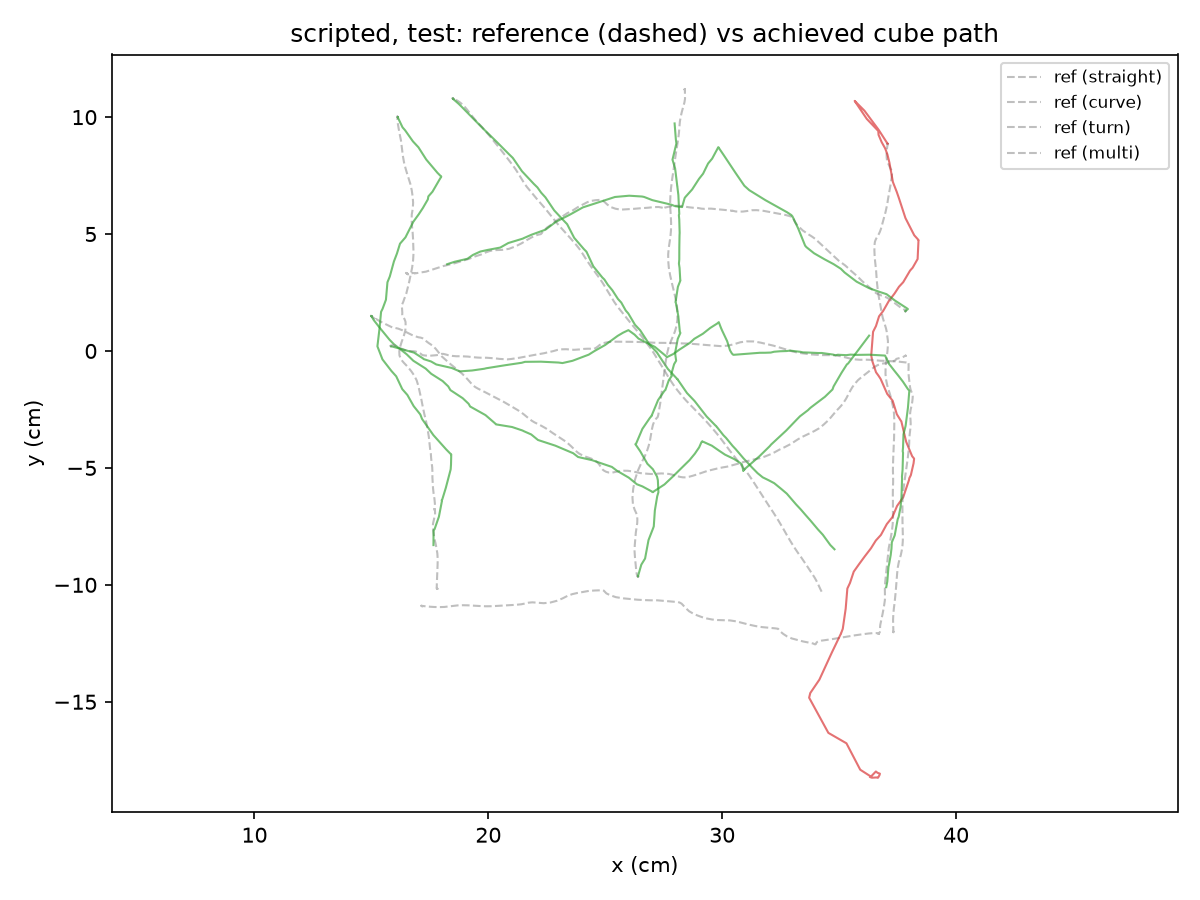
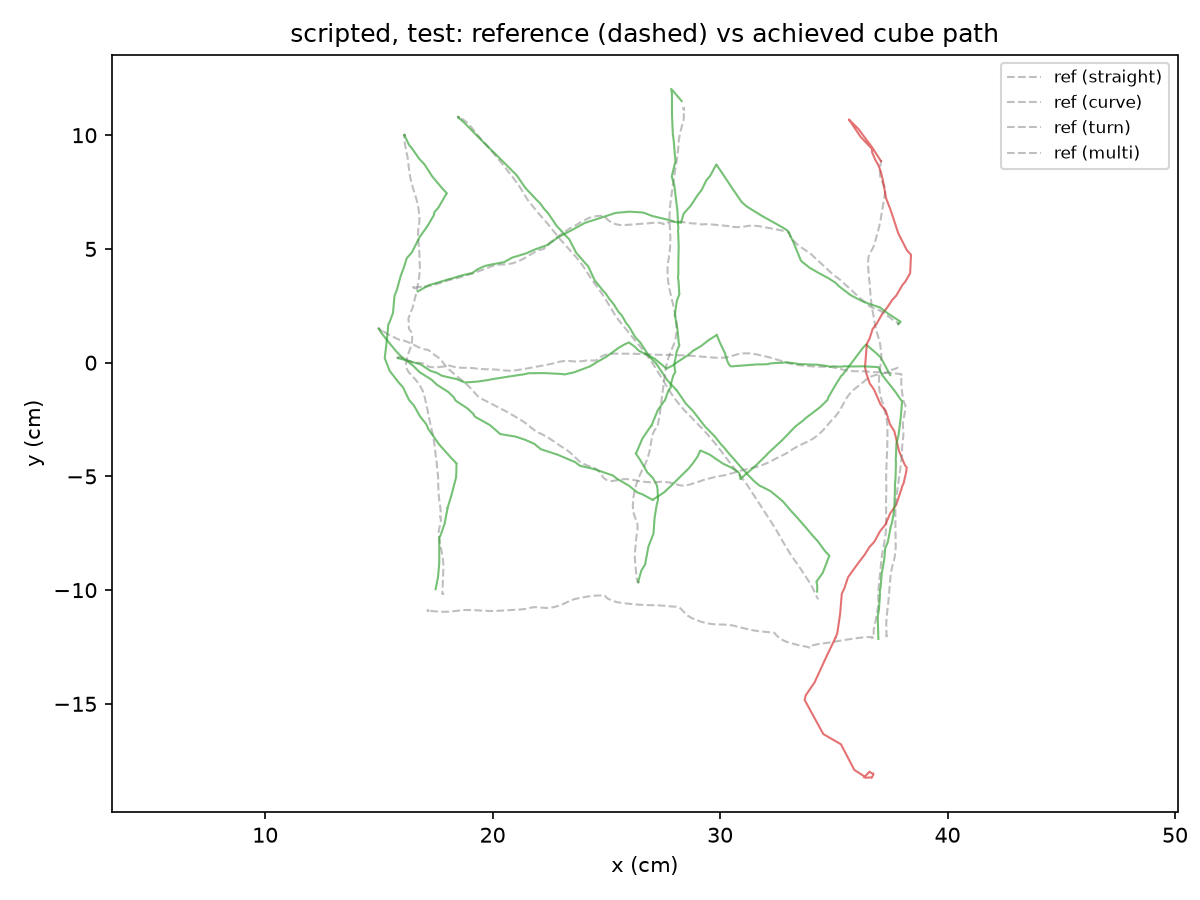
C4.2/C5.2 follow-up: fast-fail IK, until-done evaluation, scripted pusher re-run (train 27/27, test 6/7)

diff --git a/eval/report.py b/eval/report.py
@@ -188,12 +188,19 @@ def episode_categories() -> dict:
         return {row["id"]: row.get("category", "") for row in csv.DictReader(f)}
 
 
-def rollout(env, controller: Callable, episode, method: str = "", categories: "dict | None" = None) -> dict:
-    """One episode: reset the env on it, run the controller to termination, score the cube trajectory.
+def rollout(env, controller: Callable, episode, method: str = "", categories: "dict | None" = None,
+            until_done: bool = True) -> dict:
+    """One episode: reset the env on it, run the controller to the end, score the cube trajectory.
 
     episode : episode id (split envs) or integer path index (envs built from explicit paths).
     The controller is called as controller(obs) -> action; if it has reset(ref_xy) it is called first
     with the episode's reference path (robot frame), so progress-tracking controllers start clean.
+
+    until_done : True (the evaluation protocol) keeps running past the env's first success until the
+                 controller reports done (a truthy ``done`` attribute, checked after it chooses its
+                 action) or the step limit, so the final error is where the box actually ends. False
+                 stops at the env's first success, as in training. A controller without a ``done``
+                 attribute cannot say when it is finished, so the env's termination ends its episode.
     """
     options = {"episode": episode} if isinstance(episode, (int, np.integer)) else {"episode_id": episode}
     obs, _ = env.reset(options=options)
@@ -201,11 +208,15 @@ def rollout(env, controller: Callable, episode, method: str = "", categories: "d
     if hasattr(controller, "reset"):
         controller.reset(ref_xy)
     achieved = [np.asarray(env.cube_xy_yaw[0], dtype=float)]
-    done = False
-    while not done:
-        obs, _, terminated, truncated, _ = env.step(controller(obs))
+    self_stopping = until_done and hasattr(controller, "done")
+    while True:
+        action = controller(obs)
+        if self_stopping and controller.done:
+            break
+        obs, _, terminated, truncated, _ = env.step(action)
         achieved.append(np.asarray(env.cube_xy_yaw[0], dtype=float))
-        done = terminated or truncated
+        if truncated or (terminated and not self_stopping):
+            break
     achieved_xy = np.array(achieved)
     t = np.arange(len(achieved_xy)) * env.dt
     ep_id = episode if isinstance(episode, str) else f"path_{int(episode)}"
@@ -224,12 +235,12 @@ def _init_worker(split, env_kwargs):
     _worker["categories"] = episode_categories()
 
 
-def _worker_rollout(controller, episode, method):
-    return rollout(_worker["env"], controller, episode, method, _worker["categories"])
+def _worker_rollout(controller, episode, method, until_done):
+    return rollout(_worker["env"], controller, episode, method, _worker["categories"], until_done)
 
 
 def evaluate(controller: Callable, split: "str | None" = None, method: str = "", env=None,
-             workers: int = 1, env_kwargs: "dict | None" = None) -> list:
+             workers: int = 1, env_kwargs: "dict | None" = None, until_done: bool = True) -> list:
     """Run the controller once on every episode of a split and return per-episode metrics.
 
     Parameters
@@ -240,7 +251,9 @@ def evaluate(controller: Callable, split: "str | None" = None, method: str = "",
     split      : 'train', 'test' or 'showcase' (builds PushTrackEnv(split=split))
     method     : label written to the method column
     env        : an existing PushTrackEnv to use instead (explicit paths, tests); runs every path in it
-    workers    : number of processes (split mode only); episodes are independent, rollouts are slow
+    workers    : number of processes (split mode only); episodes are independent
+    until_done : run each episode until the controller reports done or the step limit (the protocol), not
+                 until the env's first success; see rollout()
 
     Returns
     -------
@@ -252,14 +265,14 @@ def evaluate(controller: Callable, split: "str | None" = None, method: str = "",
     if env is not None:
         ids = env.episode_ids or list(range(len(env._paths)))
         cats = episode_categories()
-        return [rollout(env, controller, ep, method, cats) for ep in ids]
+        return [rollout(env, controller, ep, method, cats, until_done) for ep in ids]
     if split is None:
         raise ValueError("pass a split or an env")
     from sim.push_env import PushTrackEnv
     if workers <= 1:
         env = PushTrackEnv(split=split, **env_kwargs)
         try:
-            return evaluate(controller, method=method, env=env)
+            return evaluate(controller, method=method, env=env, until_done=until_done)
         finally:
             env.close()
     from concurrent.futures import ProcessPoolExecutor
@@ -268,5 +281,5 @@ def evaluate(controller: Callable, split: "str | None" = None, method: str = "",
     probe.close()
     with ProcessPoolExecutor(max_workers=min(workers, len(ids)), initializer=_init_worker,
                              initargs=(split, env_kwargs)) as pool:
-        futures = [pool.submit(_worker_rollout, controller, ep, method) for ep in ids]
+        futures = [pool.submit(_worker_rollout, controller, ep, method, until_done) for ep in ids]
         return [f.result() for f in futures]

diff --git a/tests/test_report.py b/tests/test_report.py
@@ -175,8 +175,9 @@ def test_write_gif_greyscale_frames():
 
 class _StubEnv:
     """PushTrack-like env on explicit paths: the cube follows the last action exactly (no physics)."""
-    def __init__(self, paths, ids=None):
+    def __init__(self, paths, ids=None, terminate_at=None):
         self._paths, self.episode_ids, self.dt, self.cube = paths, ids, 0.05, None
+        self.terminate_at = terminate_at
 
     def reset(self, options=None):
         self._i = options["episode_id"] and self.episode_ids.index(options["episode_id"])             if "episode_id" in options else options["episode"]
@@ -193,8 +194,9 @@ class _StubEnv:
 
     def step(self, action):
         self.k = min(self.k + 1, len(self.path) - 1)
-        done = self.k == len(self.path) - 1
-        return np.r_[self.path[self.k], self.path[self.k], 0.0, 1.0], 0.0, done, False, {}
+        last = len(self.path) - 1
+        done = self.k == last if self.terminate_at is None else self.k >= self.terminate_at
+        return np.r_[self.path[self.k], self.path[self.k], 0.0, 1.0], 0.0, done, self.k == last, {}
 
 
 class _FollowRef:
@@ -241,3 +243,38 @@ def test_evaluate_real_env_on_synthetic_path():
 def test_evaluate_needs_split_or_env():
     with pytest.raises(ValueError):
         evaluate(lambda obs: np.zeros(2))
+
+
+class _DoneAfter:
+    """Controller that reports done once it has been asked for n actions."""
+    def __init__(self, n):
+        self.n, self.calls = n, 0
+
+    def __call__(self, obs):
+        self.calls += 1
+        return np.zeros(2)
+
+    @property
+    def done(self):
+        return self.calls >= self.n
+
+
+def test_until_done_runs_past_the_envs_first_success():
+    path = np.column_stack([np.linspace(0, 0.3, 40), np.zeros(40)])
+    env = _StubEnv([path], ids=["ep_000"], terminate_at=5)          # env reports success at step 5
+    run_on = evaluate(_DoneAfter(20), env=env)[0]
+    assert run_on["steps"] == 19 and len(run_on["achieved_xy"]) == 20     # stops when the controller says done
+    first = evaluate(_DoneAfter(20), env=env, until_done=False)[0]
+    assert first["steps"] == 5                                            # training behaviour: stop at success
+
+
+def test_controller_without_done_still_stops_at_env_termination():
+    path = np.column_stack([np.linspace(0, 0.3, 40), np.zeros(40)])
+    env = _StubEnv([path], ids=["ep_000"], terminate_at=5)
+    assert evaluate(lambda obs: np.zeros(2), env=env)[0]["steps"] == 5
+
+
+def test_until_done_stops_at_the_step_limit():
+    path = np.column_stack([np.linspace(0, 0.3, 40), np.zeros(40)])
+    env = _StubEnv([path], ids=["ep_000"], terminate_at=5)
+    assert evaluate(_DoneAfter(10_000), env=env)[0]["steps"] == 39         # env truncates at the end of the path

diff --git a/control/ee_controller.py b/control/ee_controller.py
@@ -31,7 +31,8 @@ class EEController:
     :param ev:        Linear position error tolerance in metres (default 1 mm).
     """
 
-    def __init__(self, urdf_path=DEFAULT_URDF, ev: float = 1e-3):
+    def __init__(self, urdf_path=DEFAULT_URDF, ev: float = 1e-3, chunk_iters: int = 2,
+                 max_chunks: int = 6, min_contraction: float = 0.7):
         M, Slist, limits = findMnS(urdf_path)
         n = Slist.shape[1]
         Blist = np.array([Adjoint(TransInv(M)) @ Slist[:, i] for i in range(n)]).T
@@ -39,6 +40,7 @@ class EEController:
         self._Blist = Blist
         self._limits = limits
         self._ev = float(ev)
+        self._chunk_iters, self._max_chunks, self._min_contraction = chunk_iters, max_chunks, min_contraction
         self._q = np.zeros(n)
         self._z_push: float | None = None  # locked on the first solve call
 
@@ -61,6 +63,9 @@ class EEController:
     def ee_pose(self, q=None):
         """FK: 4×4 EE pose in robot base frame at the given (or current) angles."""
         return FKinBody(self._M, self._Blist, self._q if q is None else q)
+
+    def _pos_err(self, q, T_tgt):
+        return float(np.linalg.norm(FKinBody(self._M, self._Blist, q)[:3, 3] - T_tgt[:3, 3]))
 
     def solve(self, xy_target, z_fixed=None):
         """Compute joint angles to reach (x, y) at fixed height.
@@ -90,10 +95,24 @@ class EEController:
         T_tgt[1, 3] = float(xy_target[1])
         T_tgt[2, 3] = z
 
-        q_sol, converged = IKinBodyDLS(
-            self._Blist, self._M, T_tgt, self._q, self._limits,
-            ev=self._ev, position_only=True,
-        )
+        # Warm start from the current angles and run the library in short chunks. A reachable target is a
+        # Newton problem that contracts the error by an order of magnitude per iteration (1-6 iterations in
+        # practice); an unreachable one (joint limit, out of reach) stalls. Stop as soon as a chunk fails to
+        # shrink the error, instead of burning the library's 200 iterations on every step. The iterates are
+        # exactly those of one long call: the only state carried between chunks is the joint vector.
+        q_sol, converged = self._q, False
+        err = self._pos_err(q_sol, T_tgt)
+        for _ in range(self._max_chunks):
+            q_sol, converged = IKinBodyDLS(
+                self._Blist, self._M, T_tgt, q_sol, self._limits,
+                ev=self._ev, position_only=True, maxiters=self._chunk_iters,
+            )
+            if converged:
+                break
+            new_err = self._pos_err(q_sol, T_tgt)
+            if new_err > self._min_contraction * err:
+                break
+            err = new_err
 
         if not converged:
             return self._q.copy(), False

diff --git a/tests/test_ee_controller.py b/tests/test_ee_controller.py
@@ -166,3 +166,60 @@ def test_controller_throughput():
 
     print(f"\nEEController throughput: {rate:.0f} solves/sec ({elapsed:.2f} s for {n_reps * len(q_starts)} solves)")
     assert rate > 0, "throughput must be positive (sanity)"
+
+
+# -- warm-started chunked solve (env throughput) ---------------------------------------------------
+
+def _reachable_start(rng, ctrl, z=0.01625):
+    lim = ctrl._limits
+    while True:
+        q = rng.uniform(lim[:, 0], lim[:, 1])
+        p = ctrl.ee_pose(q)[:3, 3]
+        if abs(p[2] - z) < 0.03 and np.hypot(*p[:2]) > 0.12:
+            return q
+
+
+def test_chunked_solve_matches_one_long_call_for_env_sized_steps():
+    """Stopping early on a stalled chunk must not change what a 2 cm step solves to.
+
+    The reference is the library's single call (200 iterations). Chunks carry only the joint vector, so a
+    solve that converges returns the very same angles; a sweep over 2 cm steps loses no successes.
+    """
+    rng = np.random.default_rng(0)
+    long = EEController(chunk_iters=200, max_chunks=1, min_contraction=1e9)
+    fast = EEController()
+    lost = same = n = 0
+    for _ in range(120):
+        q = _reachable_start(rng, fast)
+        ang = rng.uniform(0, 2 * np.pi)
+        tgt = fast.ee_pose(q)[:2, 3] + 0.02 * np.array([np.cos(ang), np.sin(ang)])
+        for c in (long, fast):
+            c.reset(q0=q, z_push=0.01625)
+        ql, okl = long.solve(tgt)
+        qf, okf = fast.solve(tgt)
+        n += 1
+        lost += okl and not okf
+        same += okl == okf and np.allclose(ql, qf, atol=1e-9)
+    assert lost == 0
+    assert same == n
+
+
+def test_unreachable_target_fails_after_a_few_iterations():
+    """A target far outside the workspace must give up in a handful of iterations, not the library's 200."""
+    import control.kinematics.ik as ik
+    calls = [0]
+    real = ik.dls_operator
+
+    def counted(*a, **k):
+        calls[0] += 1
+        return real(*a, **k)
+
+    ik.dls_operator = counted
+    try:
+        c = EEController()
+        c.reset(q0=np.zeros(5), z_push=0.01625)
+        q, ok = c.solve([0.9, 0.0])
+    finally:
+        ik.dls_operator = real
+    assert not ok and q == pytest.approx(np.zeros(5))
+    assert calls[0] <= 12

diff --git a/eval/run_scripted.py b/eval/run_scripted.py
@@ -32,6 +32,9 @@ def main(argv=None):
     ap.add_argument("--workers", type=int, default=12)
     ap.add_argument("--out", help="prefix for the CSV, overlay and summary files")
     ap.add_argument("--note", default="")
+    ap.add_argument("--first-success", action="store_true",
+                    help="stop each episode at the env's first success (training behaviour) instead of when "
+                         "the pusher reports done")
     sig = inspect.signature(ScriptedPusher.__init__).parameters
     for name in PARAMS:
         ap.add_argument(f"--{name.replace('_', '-')}", type=float, default=sig[name].default)
@@ -40,7 +43,8 @@ def main(argv=None):
     controller = ScriptedPusher(**params)
 
     t0 = time.time()
-    results = evaluate(controller, args.split, method=args.method, workers=args.workers)
+    results = evaluate(controller, args.split, method=args.method, workers=args.workers,
+                       until_done=not args.first_success)
     elapsed = time.time() - t0
 
     table = category_table(results)

diff --git a/control/scripted_pusher.py b/control/scripted_pusher.py
@@ -122,6 +122,11 @@ class ScriptedPusher:
     def __call__(self, obs):
         return self.act(obs)
 
+    @property
+    def done(self):
+        """True once the last act() found the cube at the end of the path (and returned a zero action)."""
+        return self.mode == DONE
+
     def act(self, obs):
         obs = np.asarray(obs, float)
         ee, cube = obs[0:2], obs[2:4]
